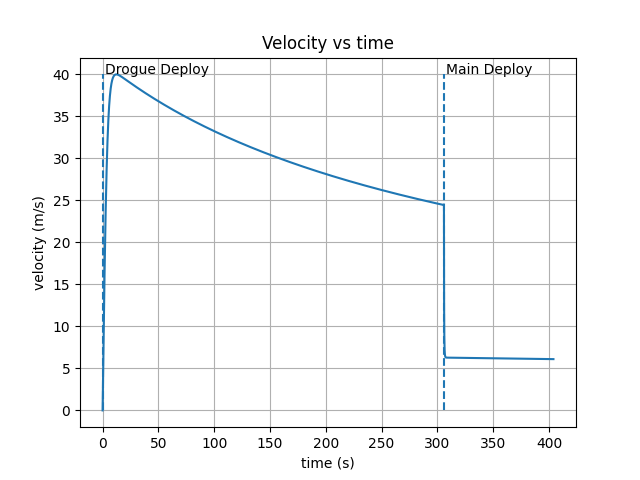
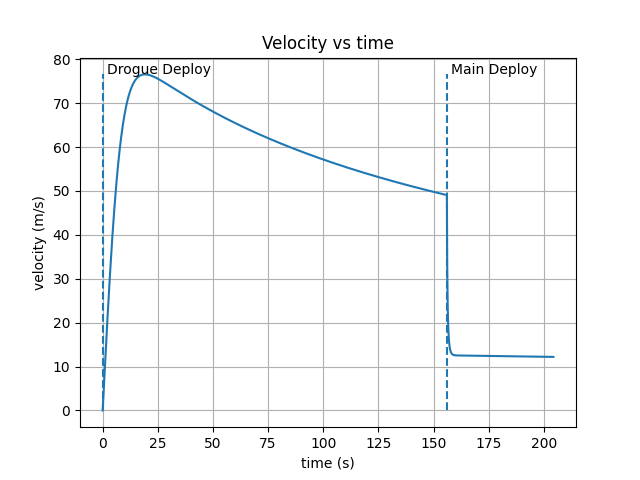
allow input of a diameter

diff --git a/Parachute-Simulation/main.py b/Parachute-Simulation/main.py
@@ -15,18 +15,24 @@ class LimitExceededException(Exception):
         super().__init__(message)
 
 # drogue
-drogue_radius = parachute.ParachuteCalculation.calculate_radius_max_descent_vel(config.ROCKET_MASS, config.DROGUE_DRAG_COEFF, launch_site, config.MAIN_ALTITUDE, config.TARGET_DROGUE_DESCENT)
 print("\n=== DROGUE ===")
-print("To achieve a drogue descent velocity of " + str(config.TARGET_DROGUE_DESCENT) + ":")
+if not config.DROGIE_DIAMETER:
+    drogue_radius = parachute.ParachuteCalculation.calculate_radius_max_descent_vel(config.ROCKET_MASS, config.DROGUE_DRAG_COEFF, launch_site, config.MAIN_ALTITUDE, config.TARGET_DROGUE_DESCENT)
+    print("To achieve a drogue descent velocity of " + str(config.TARGET_DROGUE_DESCENT) + ":")
+else:
+    drogue_radius = config.DROGIE_DIAMETER/2
 # For proper outputting
 drogue_radius.set_unit(config.OUTPUT_UNITS)
 print("Parachute radius: " + str(drogue_radius))
 print()
 
 # main
-main_radius = parachute.ParachuteCalculation.calculate_radius_landing(config.ROCKET_MASS, config.MAIN_DRAG_COEFF, launch_site, config.TARGET_LANDING_VEL)
 print("=== MAIN ===")
-print("To achieve a landing velocity of " + str(config.TARGET_LANDING_VEL) + ":")
+if not config.MAIN_DIAMETER:
+    main_radius = parachute.ParachuteCalculation.calculate_radius_landing(config.ROCKET_MASS, config.MAIN_DRAG_COEFF, launch_site, config.TARGET_LANDING_VEL)
+    print("To achieve a landing velocity of " + str(config.TARGET_LANDING_VEL) + ":")
+else:
+    main_radius = config.MAIN_DIAMETER/2
 # For proper outputting
 main_radius.set_unit(config.OUTPUT_UNITS)
 print("Parachute radius: " + str(main_radius))

diff --git a/Parachute-Simulation/config.py b/Parachute-Simulation/config.py
@@ -6,6 +6,12 @@ APOGEE_ALTITUDE = u.Measurement(10, u.Unit.KILOMETERS) # Apogee deployment altit
 MAIN_ALTITUDE = u.Measurement(2000, u.Unit.FEET) # Main parachute deployment altitude
 WIND_SPEED = u.Measurement(9, u.Unit.MILES).per(u.UTime.HOUR) # Wind speed
 
+DROGIE_DIAMETER = u.Measurement(13.72, u.Unit.INCHES)
+MAIN_DIAMETER = u.Measurement(47, u.Unit.INCHES)
+
+# DROGIE_DIAMETER = None
+# MAIN_DIAMETER = None
+
 # Parachute parameters
 DROGUE_DRAG_COEFF = 1.4 # C_d of the drogue parachute (DRIFT: NO EFFECT)
 MAIN_DRAG_COEFF = 1.8 # C_d of the main parachute (DRIFT: NO EFFECT)
